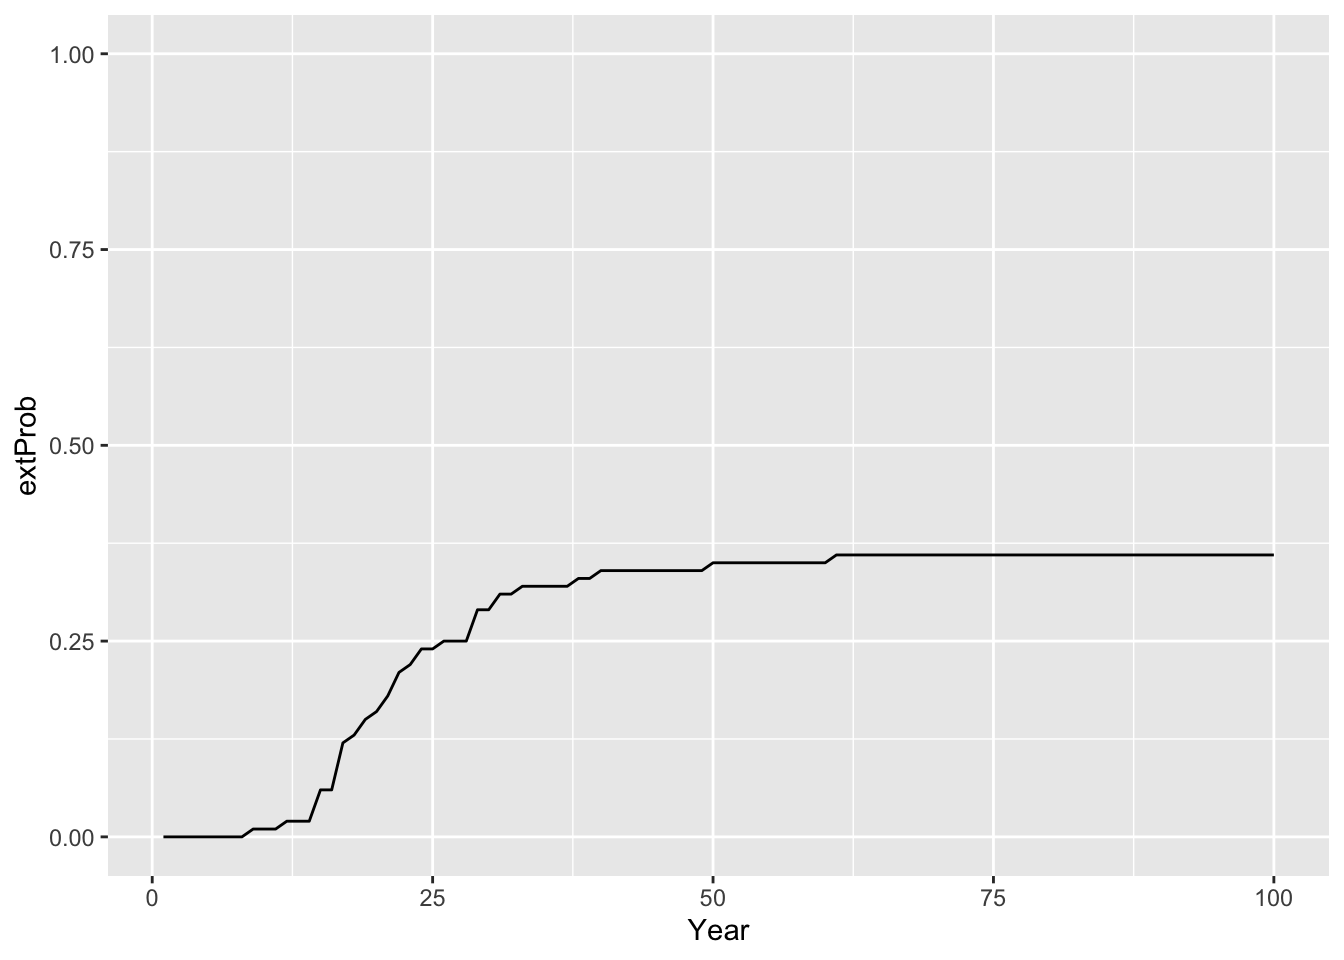
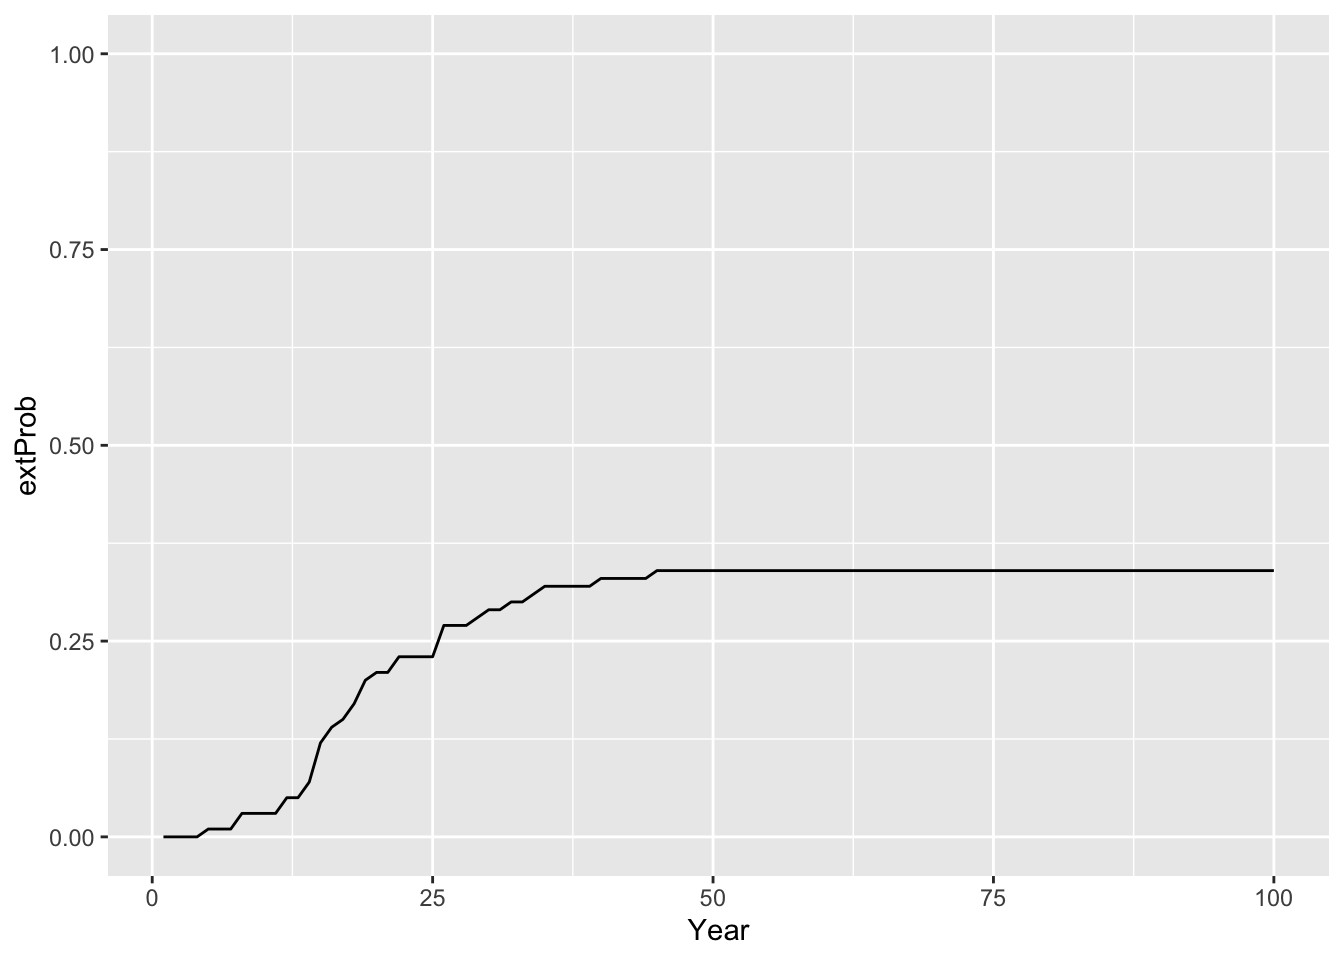
update RS

diff --git a/7_RS_intro.html b/7_RS_intro.html
@@ -13,7 +13,7 @@
 
 <title>Getting started with RangeShiftR</title>
 
-<script src="site_libs/header-attrs-2.25/header-attrs.js"></script>
+<script src="site_libs/header-attrs-2.29/header-attrs.js"></script>
 <script src="site_libs/jquery-3.6.0/jquery-3.6.0.min.js"></script>
 <meta name="viewport" content="width=device-width, initial-scale=1" />
 <link href="site_libs/bootstrap-3.3.5/css/bootstrap.min.css" rel="stylesheet" />
@@ -71,6 +71,7 @@ if (window.hljs) {
 div.csl-bib-body { }
 div.csl-entry {
   clear: both;
+  margin-bottom: 0em;
 }
 .hanging div.csl-entry {
   margin-left:2em;
@@ -537,8 +538,8 @@ number="1.2">
 working example</h2>
 <p>Load the package by typing:</p>
 <pre class="r"><code>library(RangeShiftR)</code></pre>
-<pre><code>## RangeshiftR version 1.0.4 (10.05.2022)
-## Copyright (C) 2020-2022 Anne-Kathleen Malchow, Greta Bocedi, Stephen C.F. Palmer, Justin M.J. Travis, Damaris Zurell
+<pre><code>## RangeshiftR version 3.0.0 (22.04.2026)
+## Copyright (C) 2020-2026 Anne-Kathleen Malchow, Greta Bocedi, Stephen C.F. Palmer, Justin M.J. Travis, Jette Wolff, Théo Pannetier, Roslyn Henry, Damaris Zurell
 ## 
 ## This program is distributed in the hope that it will be useful, but WITHOUT ANY WARRANTY.
 ## You are welcome to redistribute it and/or modify it under certain conditions;
@@ -564,30 +565,32 @@ typing:</p>
 ## Control Parameters checked
 ## 
 ## Run Simulation(s) with random seed ...
+## ReadLandParamsR() done
+## ReadParametersR() done.
+## ReadEmigrationR() done.
+## ReadTransferR() done.
+## ReadSettlementR() done.
+## ReadInitialisationR() done.
 ## 
 ## Running simulation nr. 1
-## 
-## starting replicate 0
 ## RunModel(): completed initialisation 
-## starting year 0...
-## starting year 1...
-## starting year 2...
-## starting year 3...
-## starting year 10...
-## starting year 20...
-## starting year 30...
-## 
-## starting replicate 1
+## Starting year 0...
+## Starting year 1...
+## Starting year 2...
+## Starting year 3...
+## Starting year 10...
+## Starting year 20...
+## Starting year 30...
 ## RunModel(): completed initialisation 
-## starting year 0...
-## starting year 1...
-## starting year 2...
-## starting year 3...
-## starting year 10...
-## starting year 20...
-## starting year 30...
+## Starting year 0...
+## Starting year 1...
+## Starting year 2...
+## Starting year 3...
+## Starting year 10...
+## Starting year 20...
+## Starting year 30...
 ## 
-## ***** Elapsed time: 2 seconds
+## ***** Elapsed time: 5 seconds
 ## 
 ## *****
 ## ***** Simulation completed 
@@ -641,9 +644,12 @@ as some log files - in the ‘Outputs’ folder.</p>
 ## 
 ##   Settlement:
 ##    Settlement conditions:
-##      [,1]
-## [1,]    0
-##    FindMate = FALSE 
+## [1] 0
+##    FindMate =
+## [1] FALSE
+## 
+##  Management: 
+##  [1] FALSE
 ## 
 ##  Initialisation: 
 ##    InitType = 0 : Free initialisation 
@@ -661,15 +667,19 @@ are:</p>
 <li>Initialisation</li>
 </ul>
 <p>Here is a schematic overview of the module constructors and their
-relations <span class="citation">(Malchow et al. 2021)</span>:</p>
+relations <span class="citation">(adapated from Malchow et al.
+2021)</span>:</p>
 <div class="figure">
-<img src="figures/func_overview.png" alt="*RangeshiftR function overview*" width="1604" />
+<img src="figures/function_overview_3.0.png" alt="*RangeshiftR function overview*" width="412" />
 <p class="caption">
 <em>RangeshiftR function overview</em>
 </p>
 </div>
 <p>In the following, we go through some of the most relevant aspects of
-each module.</p>
+each module. A full overview of all functions is provided in the
+official <a
+href="https://rangeshifter.github.io/RangeshiftR-tutorials/overview_0.html">RangeShiftR
+tutorials</a>.</p>
 <div id="simulation" class="section level2" number="2.1">
 <h2><span class="header-section-number">2.1</span> Simulation</h2>
 <p>This module is used to set general simulation parameters
@@ -850,12 +860,12 @@ pop_wide_rep0 &lt;- reshape(subset(pop_df,Rep==0)[,c(&#39;Year&#39;,&#39;x&#39;,
 
 head(pop_wide_rep0)</code></pre>
 <pre><code>##     x    y NInd.0 NInd.50
-## 1  15  165      3       5
-## 2 265 2505      3       3
-## 3 425 2435      3       6
-## 4 435 1855      3       6
-## 5 155 1085      3       4
-## 6 515 2335      3       6</code></pre>
+## 1 365  625      3       6
+## 2 835 2495      3       5
+## 3 485   45      3       7
+## 4 425  795      3       8
+## 5 365   85      3       8
+## 6 255  995      3       3</code></pre>
 <pre class="r"><code># use terra package to make a SpatRaster from the data frame
 library(terra)
 
@@ -867,7 +877,8 @@ terra::plot(stack_years_rep0, range = c(0,10), type=&#39;continuous&#39;)</code>
 </div>
 <div id="references" class="section level1 unnumbered">
 <h1 class="unnumbered">References</h1>
-<div id="refs" class="references csl-bib-body hanging-indent">
+<div id="refs" class="references csl-bib-body hanging-indent"
+entry-spacing="0">
 <div id="ref-Bocedi2014" class="csl-entry">
 Bocedi, G., S. C. F. Palmer, G. Pe’er, R. K. Heikkinen, Y. G. Matsinos,
 K. Watts, and J. M. J. Travis. 2014. <span>“RangeShifter: A Platform for
@@ -901,7 +912,7 @@ href="https://doi.org/10.1111/ecog.05689">https://doi.org/10.1111/ecog.05689</a>
 <br>
 <hr />
 <div id="footer">
-<p>Damaris Zurell 2023 <a href="http://creativecommons.org/licenses/by/4.0/" >(CC BY 4.0)</a>.  </p>
+<p>Damaris Zurell 2023-2026 <a href="http://creativecommons.org/licenses/by/4.0/" >(CC BY 4.0)</a>.  </p>
 </div>
 
 </html>

diff --git a/9_RS_grouse.html b/9_RS_grouse.html
@@ -13,7 +13,7 @@
 
 <title>Black grouse range dynamics</title>
 
-<script src="site_libs/header-attrs-2.26/header-attrs.js"></script>
+<script src="site_libs/header-attrs-2.29/header-attrs.js"></script>
 <script src="site_libs/jquery-3.6.0/jquery-3.6.0.min.js"></script>
 <meta name="viewport" content="width=device-width, initial-scale=1" />
 <link href="site_libs/bootstrap-3.3.5/css/bootstrap.min.css" rel="stylesheet" />
@@ -71,6 +71,7 @@ if (window.hljs) {
 div.csl-bib-body { }
 div.csl-entry {
   clear: both;
+  margin-bottom: 0em;
 }
 .hanging div.csl-entry {
   margin-left:2em;
@@ -829,6 +830,10 @@ replicates.</p>
 # Read population output file into a data frame
 pop_static &lt;- readPop(s, dirpath)
 
+# Transfer into correct coordinate system
+pop_static$x &lt;- pop_static$x + xmin(CH_mask)
+pop_static$y &lt;- pop_static$y + ymin(CH_mask)
+
 # Make data frame with mean abundances per cell and selected year:
 pop_static_wide &lt;- pop_static %&gt;%
   # Select years you want to map
@@ -843,30 +848,24 @@ pop_static_wide &lt;- pop_static %&gt;%
 pop_static_wide</code></pre>
 <pre><code>## # A tibble: 8,580 × 4
 ## # Groups:   x, y [8,580]
-##        x     y  `25` `125`
-##    &lt;dbl&gt; &lt;dbl&gt; &lt;dbl&gt; &lt;dbl&gt;
-##  1 63500 57500   0.5   0.3
-##  2 63500 58500   0.2   0.1
-##  3 63500 60500   0.6   1  
-##  4 64500 36500   0.1   0.3
-##  5 64500 57500   0.5   0.2
-##  6 64500 58500   0.1   0  
-##  7 65500 35500   0.3   0.3
-##  8 65500 36500   0.2   0  
-##  9 65500 37500   0     0  
-## 10 65500 38500   0.4   0.3
+##         x      y  `25` `125`
+##     &lt;dbl&gt;  &lt;dbl&gt; &lt;dbl&gt; &lt;dbl&gt;
+##  1 548500 132500   0.4   0.2
+##  2 548500 133500   0.5   0.3
+##  3 548500 135500   0.3   0.3
+##  4 549500 111500   0.3   0.3
+##  5 549500 132500   0.4   0.1
+##  6 549500 133500   0.1   0.1
+##  7 550500 110500   0.2   0.2
+##  8 550500 111500   0.1   0.1
+##  9 550500 112500   0.2   0.3
+## 10 550500 113500   0.4   0.2
 ## # ℹ 8,570 more rows</code></pre>
 <p>Next, we make SpatRaster maps from the selected output years.
 Thereby, we have to take care that the coordinates are in the same
 format as the original input map to ease mapping and allow masking to
 the Swiss borders.</p>
 <pre class="r"><code># Make multi-layer SpatRaster
-
-# Transfer into correct coordinate system
-pop_static_wide$x &lt;- pop_static_wide$x + xmin(CH_mask)
-pop_static_wide$y &lt;- pop_static_wide$y + ymin(CH_mask)
-
-# Make SpatRaster
 r_pop_static &lt;- terra::rast(pop_static_wide, crs=crs(CH_mask), type=&#39;xyz&#39;)
 
 # Extend to original spatial extent
@@ -922,6 +921,11 @@ phase to map the simulated range dynamics.</p>
 <pre class="r"><code># Read population output file into a data frame
 pop_dynamic &lt;- readPop(s_cc, dirpath)
 
+# Transfer into correct coordinate system
+pop_dynamic$x &lt;- pop_dynamic$x + xmin(CH_mask)
+pop_dynamic$y &lt;- pop_dynamic$y + ymin(CH_mask)
+
+
 # Make data frame with mean abundances per cell and selected year:
 pop_dynamic_wide &lt;- pop_dynamic %&gt;%
   # Select years you want to map: every ten years after spinup
@@ -933,14 +937,7 @@ pop_dynamic_wide &lt;- pop_dynamic %&gt;%
   # Make separate columns for different years
   pivot_wider(names_from=Year, values_from=meanInd)</code></pre>
 <pre class="r"><code># Make multi-layer SpatRaster
-
-# Transfer into correct coordinate system
-pop_dynamic_wide_corr &lt;- pop_dynamic_wide
-pop_dynamic_wide_corr$x &lt;- pop_dynamic_wide$x + xmin(CH_mask)
-pop_dynamic_wide_corr$y &lt;- pop_dynamic_wide$y + ymin(CH_mask)
-
-# Make SpatRaster
-r_pop_dynamic &lt;- terra::rast(pop_dynamic_wide_corr, crs=crs(CH_mask), type=&#39;xyz&#39;)
+r_pop_dynamic &lt;- terra::rast(pop_dynamic_wide, crs=crs(CH_mask), type=&#39;xyz&#39;)
 
 # Extend to original spatial extent
 r_pop_dynamic &lt;- terra::extend(r_pop_dynamic, CH_mask)
@@ -1138,7 +1135,8 @@ with <code>readRange()</code>, specifically from the column
 </div>
 <div id="references" class="section level1 unnumbered">
 <h1 class="unnumbered">References</h1>
-<div id="refs" class="references csl-bib-body hanging-indent">
+<div id="refs" class="references csl-bib-body hanging-indent"
+entry-spacing="0">
 <div id="ref-Bocedi2014" class="csl-entry">
 Bocedi, G., S. C. F. Palmer, G. Pe’er, R. K. Heikkinen, Y. G. Matsinos,
 K. Watts, and J. M. J. Travis. 2014. <span>“RangeShifter: A Platform for
@@ -1203,7 +1201,7 @@ href="https://doi.org/10.1111/jbi.13608">https://doi.org/10.1111/jbi.13608</a>.
 <br>
 <hr />
 <div id="footer">
-<p>Damaris Zurell 2023 <a href="http://creativecommons.org/licenses/by/4.0/" >(CC BY 4.0)</a>.  </p>
+<p>Damaris Zurell 2023-2026 <a href="http://creativecommons.org/licenses/by/4.0/" >(CC BY 4.0)</a>.  </p>
 </div>
 
 </html>

diff --git a/8_RS_lynx.html b/8_RS_lynx.html
@@ -71,6 +71,7 @@ if (window.hljs) {
 div.csl-bib-body { }
 div.csl-entry {
   clear: both;
+  margin-bottom: 0em;
 }
 .hanging div.csl-entry {
   margin-left:2em;
@@ -739,7 +740,7 @@ the maximum number of steps.</p>
 <pre class="r"><code>settle &lt;- Settlement(StageDep = F,
                      SexDep = T,
                      Settle = cbind(c(0, 1), c(1.0, 1.0), c(-10, -10), c(1, 1)), # here no difference between sexes
-                     FindMate = c(F, T), # only males need to find a female
+                     FindMate = cbind(c(0,1),c(F, T)), # only males need to find a female
                      DensDep = T,
                      MaxSteps = 500
                      )</code></pre>
@@ -899,12 +900,12 @@ col_stats_29 &lt;- ColonisationStats(s_29, dirpath, years = 100, maps = T)</code
 <pre class="r"><code># mean occupancy probability in year 100
 head(col_stats_29$occ_prob)</code></pre>
 <pre><code>##   patch  100
-## 1     1 0.06
-## 2     2 0.12
-## 3     3 0.09
-## 4     4 0.37
+## 1     1 0.08
+## 2     2 0.11
+## 3     3 0.14
+## 4     4 0.29
 ## 5     5 0.46
-## 6     6 0.26</code></pre>
+## 6     6 0.32</code></pre>
 <pre class="r"><code># map occupancy probability
 mycol_occprob &lt;- colorRampPalette(c(&#39;blue&#39;,&#39;orangered&#39;,&#39;gold&#39;))
 plot(col_stats_29$map_occ_prob, axes=F, range=c(0,1), col=mycol_occprob(10), type=&quot;continuous&quot;)</code></pre>
@@ -964,11 +965,11 @@ pop_29 %&gt;%
 ##  3     2  0     
 ##  4     3  0     
 ##  5     4  0     
-##  6     5  0     
-##  7     6  0     
-##  8     7  0     
-##  9     8  0     
-## 10     9  0.0100
+##  6     5  0.0100
+##  7     6  0.0100
+##  8     7  0.0100
+##  9     8  0.0300
+## 10     9  0.0300
 ## # ℹ 91 more rows</code></pre>
 <p>Additionally, we might be interested in the mean time to extinction.
 The arithmetic mean time to extinction can simply be extracted as the
@@ -986,7 +987,7 @@ pop_29 %&gt;%
   # Identify in which year they go extinct
   filter(sumPop==0) %&gt;% 
   pull(Year) %&gt;% mean</code></pre>
-<pre><code>## [1] 24</code></pre>
+<pre><code>## [1] 20.67647</code></pre>
 <pre class="r"><code># Intrinsic mean time to extinction:
 pop_29 %&gt;%
   group_by(Rep,Year) %&gt;%
@@ -1001,7 +1002,7 @@ pop_29 %&gt;%
   coef() %&gt;% .[2] %&gt;% 
   {1 / .}  # Intrinsic mean time to extinction is the inverse of the slope coefficient</code></pre>
 <pre><code>##     Year 
-## 214.7156</code></pre>
+## 252.5797</code></pre>
 <p>As the computation of these measures takes a few line of code, it is
 useful to define an own function to ease computation and keep our R
 script as short as possible. We thus define two new functions (using the
@@ -1067,7 +1068,7 @@ ggplot(data = extProb_29, mapping = aes(x = Year, y = extProb)) +
 <pre class="r"><code># mean time to extinction
 Calc_ExtTime(pop_29)</code></pre>
 <pre><code>##     Year 
-## 214.7156</code></pre>
+## 252.5797</code></pre>
 <p>The results indicate that although the mean abundances across 100
 replicate simulations are increasing over time, there is still a certain
 risk of extinction for the reintroduced lynx. Still, the intrinsic mean
@@ -1125,7 +1126,7 @@ extProb_29_15 &lt;- Calc_ExtProb(pop_29_15,s_29_15)
 # intrinsic mean time to extinction
 Calc_ExtTime(pop_29_15)</code></pre>
 <pre><code>##     Year 
-## 237.6675</code></pre>
+## 284.0972</code></pre>
 <pre class="r"><code># Compare extinction probabilities for single- and multi-site reintroduction
 
 # Join extinction probabilities in a single data frame
@@ -1166,7 +1167,8 @@ scenarios.</li>
 </div>
 <div id="references" class="section level1 unnumbered">
 <h1 class="unnumbered">References</h1>
-<div id="refs" class="references csl-bib-body hanging-indent">
+<div id="refs" class="references csl-bib-body hanging-indent"
+entry-spacing="0">
 <div id="ref-Bocedi2021" class="csl-entry">
 Bocedi, Greta, Stephen C. F. Palmer, Anne-Kathleen Malchow, Damaris
 Zurell, Kevin Watts, and Justin M. J. Travis. 2021. <span>“RangeShifter
@@ -1212,7 +1214,7 @@ href="https://doi.org/10.5285/BB15E200-9349-403C-BDA9-B430093807C7">https://doi.
 <br>
 <hr />
 <div id="footer">
-<p>Damaris Zurell 2023 <a href="http://creativecommons.org/licenses/by/4.0/" >(CC BY 4.0)</a>.  </p>
+<p>Damaris Zurell 2023-2026 <a href="http://creativecommons.org/licenses/by/4.0/" >(CC BY 4.0)</a>.  </p>
 </div>
 
 </html>
